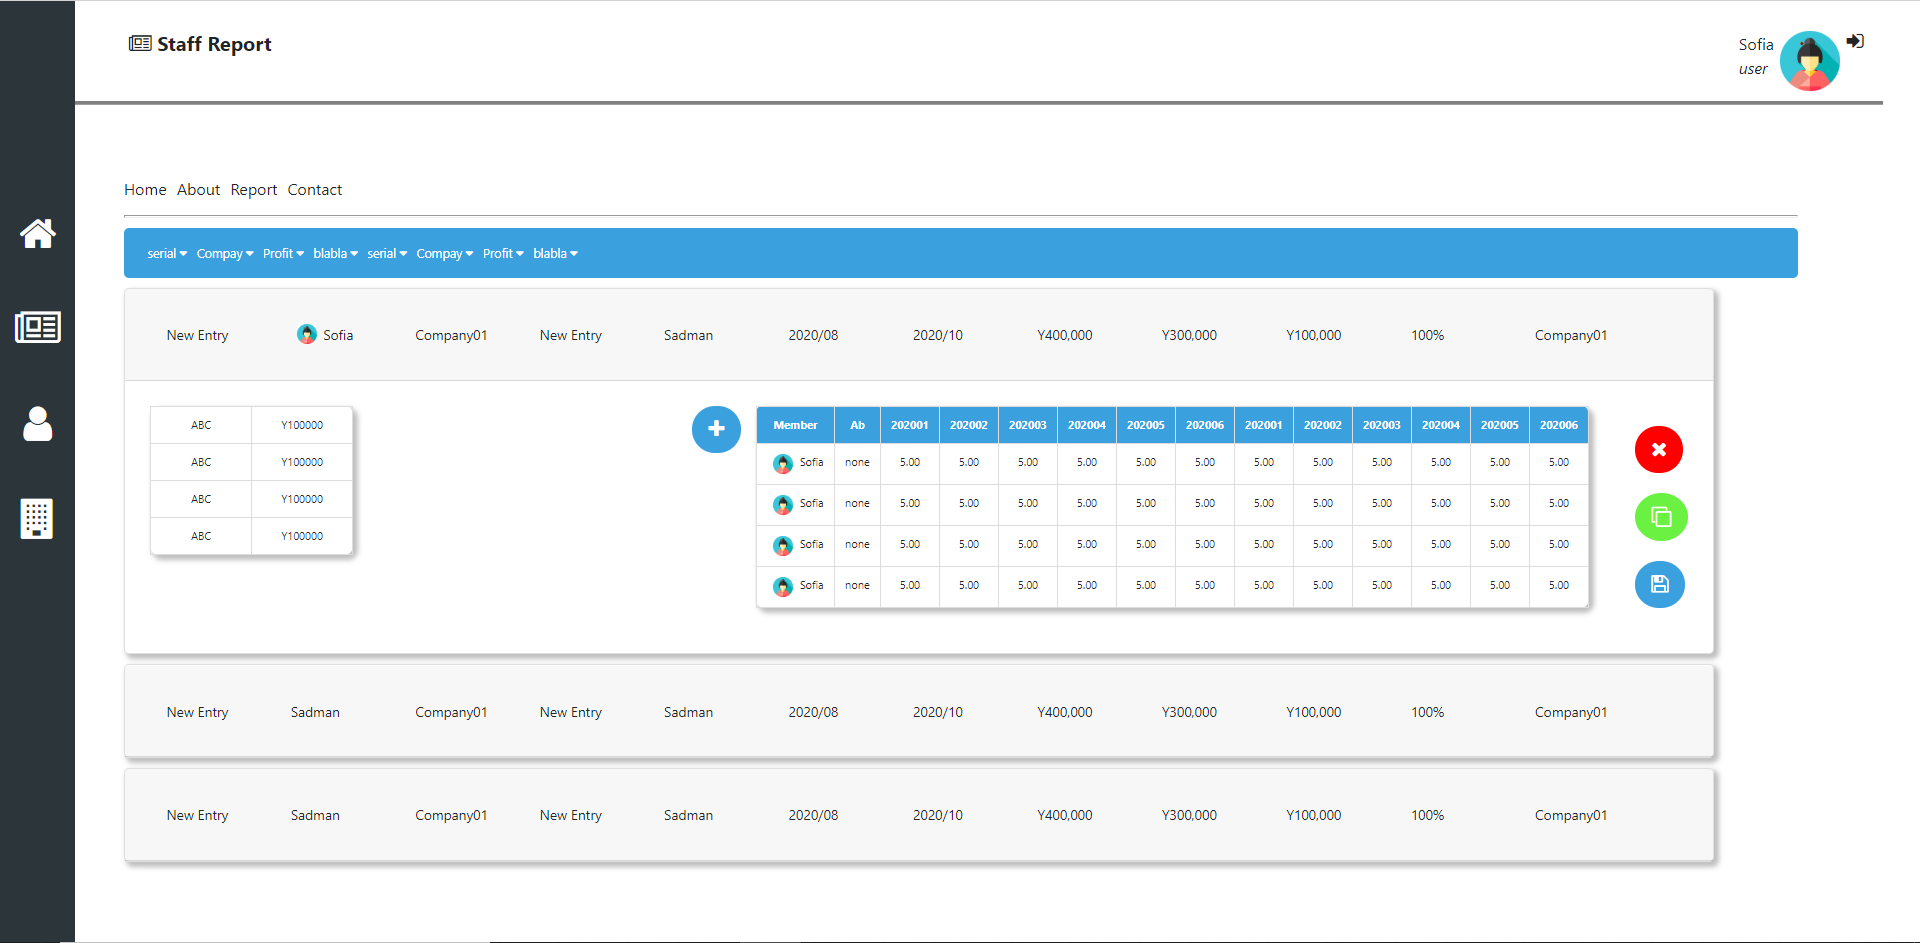
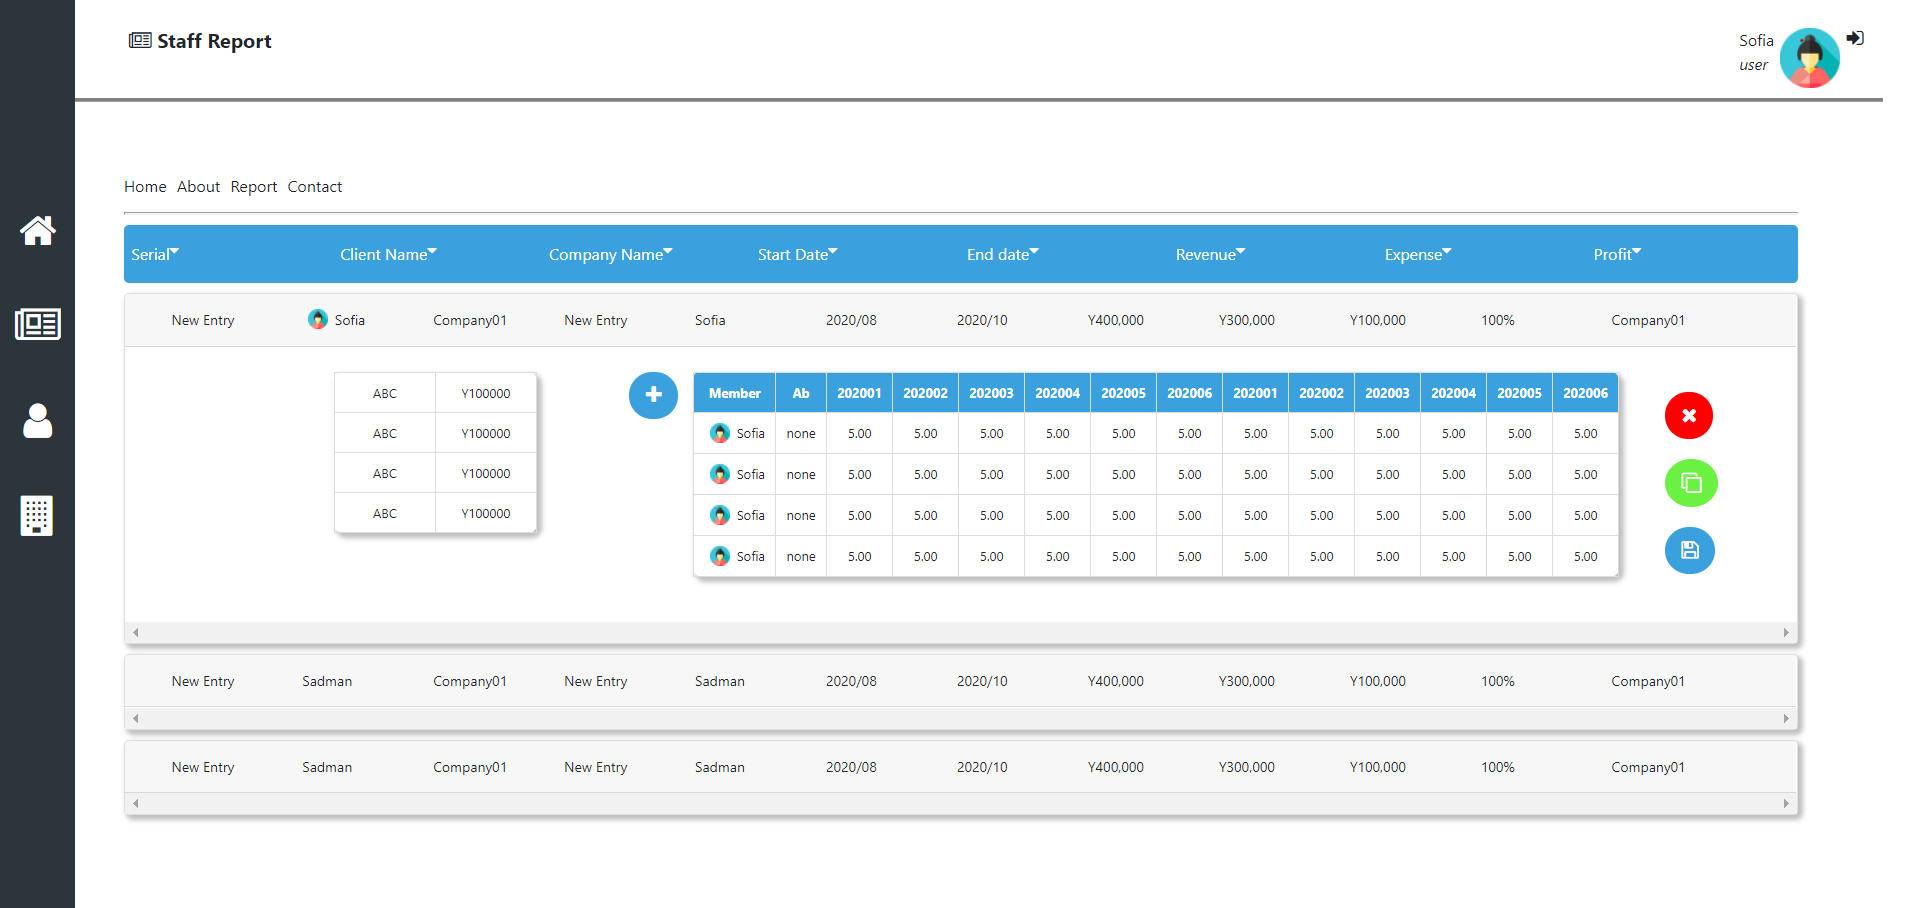
Collapse

diff --git a/index.html b/index.html
@@ -13,6 +13,7 @@
     <!-- Customized CSS -->
     <link rel="stylesheet" href="css/style.css">
 
+
 </head>
 <body>
 
@@ -44,7 +45,7 @@
 									<div class="dropdown d-flex">
 										<span class=" chip ml-3">
 											<span class="avatar"> <img  class="img-fluid" src="img/user.png"></span>
-											Sofia</br> <em>user</em>
+											Sofia <span class="fa fa-caret-down"></span></br> <em>user</em>
 
 										</span>
 										<span class="fa fa-sign-in"></span>
@@ -85,6 +86,7 @@
 				                    	<li class="col-1">Revenue <span class="fa fa-caret-down"></span></li>
 				                    	<li class="col-1">Expense <span class="fa fa-caret-down"></span></li>
 				                    	<li class="col-1">Profit <span class="fa fa-caret-down"></span></li>
+				                    	<li class="col-1"><span class="fa fa-filter fa-lg"></span><span class="fa fa-caret-down"></span></li>
 				                    </ul>
 				                </div>    	
 				                  
@@ -221,13 +223,12 @@
 				                            		<td>5.00</td>
 				                            		<td>5.00</td>
 				                            		<td>5.00</td>
-				                            		
 				                            	</tr>
 				                            </table>
 				                        </div>
 				                        <div class="action">
 				                        	<ul class="list-unstyled">
-				                        		<li class="list"><button class="btn round-btn danger"><span class="fa fa-times"></span></button></li>
+				                        		<li class="list"><button class="btn round-btn danger"><span class="fa fa-trash"></span></button></li>
 				                        		<li class="list"><button class="btn round-btn success"><span class="fa fa-clone"></span></button></li>
 				                        		<li class="list"><button  class="btn round-btn primary"><span class="fa fa-save"></span></button></li>
 
@@ -271,8 +272,9 @@
 			                        </div>
 			                    </div>
 			                    <div class="card">
-			                          <div class="card-header" role="tab" id="row2head" >
-			                          
+
+			                          <div class="card-header" role="tab" id="row3head" >
+			                          	
 			                            <a data-toggle="collapse" data-target="#row2">
 			                              <div class="row">
 			                              	<div class="col-1">New Entry</div>
@@ -291,7 +293,7 @@
 			                            </a>
 			                          
 			                        </div>
-			                          <div class="collapse" id="row2" data-parent="#accordian">
+			                          <div class="collapse" id="row3" data-parent="#accordian">
 			                            <div class="card-body inactive">
 			                              <p class="d-none d-sm-block">Lorem ipsum dolor sit amet, consectetur adipisicing elit, sed do eiusmod
 			                              tempor incididunt ut labore et dolore magna aliqua. Ut enim ad minim veniam,
@@ -309,7 +311,9 @@
 				
 			</div>
 	</div>
+	
 
+	<script type="text/javascript" src="js/scripts.js"></script>
 
 </body>
 </html>

diff --git a/css/style.css b/css/style.css
@@ -160,7 +160,7 @@ body {
     overflow-x: scroll;
 
 }
-.inactive{
+.collapse{
   display: none;
 }
 
@@ -279,7 +279,7 @@ body {
 	min-width: 7.5%;
 	padding:0px 5px;
 	font-size: 100%;
-  justify-content: flex-start;
+  justify-content: center;
 
 }
 .col-12{
@@ -354,7 +354,7 @@ body {
     border: 0.5px solid #dddddd;
     padding: .5rem; 
     vertical-align: top;
-    
+    width: 100%;
     text-align: center;
     overflow-wrap: break-word;
   }
@@ -429,6 +429,7 @@ td img,.smallpic{
 .nav-item{
   padding-right: 0.5rem;
 }
+
 
 @media{
 

diff --git a/js/scripts.js b/js/scripts.js
@@ -1,0 +1,17 @@
+var coll = document.getElementsByClassName("card-header");
+		var i;
+
+		for (i = 0; i < coll.length; i++) {
+			
+		  coll[i].addEventListener("click", function() {
+		    console.log(typeof i);
+		    console.log(`${i-1}`)
+		    var content = document.getElementsByClassName("collapse");
+
+		    if (content[0].style.display === "block") {
+		      content[0].style.display = "none";
+		    } else {
+		      content[0].style.display = "block";
+		    }
+		  });
+		}
